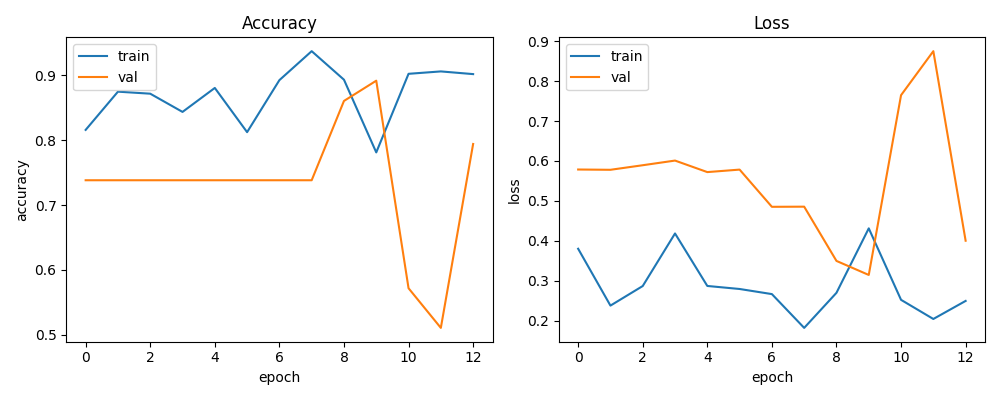
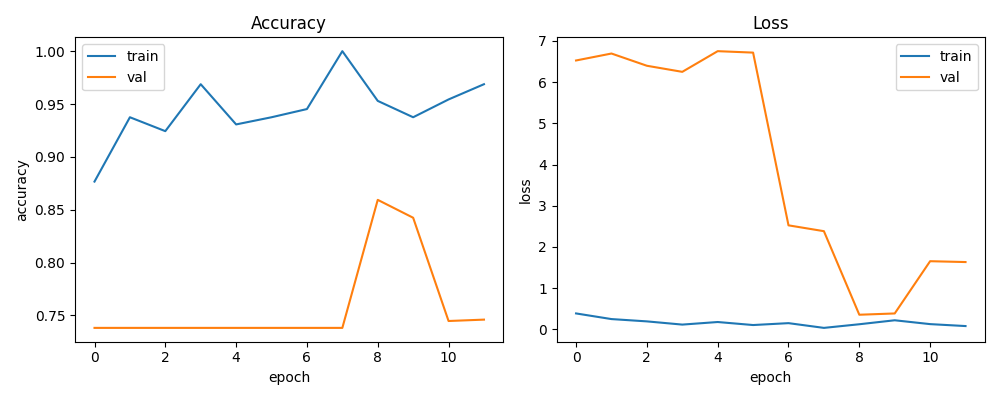
Add verified results for the corrected Improved CNN architecture

diff --git a/docs/results.md b/docs/results.md
@@ -56,9 +56,8 @@ papering over:
   but was never one of the report's five official architectures. Once the
   actual report was available, `build_improved_cnn` was rewritten to match
   it exactly -- verified param-for-param (1,246,977 total parameters)
-  against the report's own model-summary table. See the note on the
-  "Reproduced results" section below: the 81.89% result recorded there was
-  measured *before* this correction and needs to be re-run.
+  against the report's own model-summary table, and confirmed again by the
+  actual Colab training run in the "Reproduced results" section below.
 - **VGG-19 was accidentally built on the VGG-16 backbone.** The notebook
   instantiated a `VGG19` base model but then built the classification head
   on top of the previously-defined `VGG16` variable by mistake, so the two
@@ -99,31 +98,39 @@ the historical result the team reported.
 
 ## Reproduced results (this repo)
 
-> ⚠ **The numbers below were measured before the "Improved CNN"
-> architecture correction described above** -- they're for the old
-> SeparableConv2D network, not the report-matching architecture this repo
-> now builds under that name. Kept here for now as a record of the
-> validation-split fix working correctly; needs a fresh
-> `train.py --model improved` run to reflect the current architecture.
-
-Actual output of `train.py --model improved --epochs 15` in this repo,
-after the validation-split fix above (see `test_metrics.json`):
+Actual output of `train.py --model improved --epochs 15` in this repo, run
+against the corrected architecture above (see `test_metrics.json`) -- the
+model summary for this run confirmed **1,246,977 total parameters**,
+matching the report's table exactly:
 
 | Metric | Value |
 | --- | --- |
-| Accuracy | 81.89% |
-| Precision | 81.99% |
-| Recall | 91.03% |
-| F1 | 86.26% |
+| Accuracy | 88.30% |
+| Precision | 90.96% |
+| Recall | 90.26% |
+| F1 | 90.60% |
 
-Confusion matrix: 156 true negatives, 78 false positives, 35 false
-negatives, 355 true positives (624 test images total).
+Confusion matrix: 199 true negatives, 35 false positives, 38 false
+negatives, 352 true positives (624 test images total).
 
-This is lower than the historical 91.28% figure above, which is expected
--- this is a different, corrected implementation (fixed random seed, fixed
-validation split, fixed VGG-19/layer-freezing bugs) rather than a replay of
-the original run, and it was trained for 15 epochs with no additional
-hyperparameter tuning. Recall (91%) is notably higher than precision (82%)
-here, meaning the model catches most true pneumonia cases at the cost of
-some false alarms on healthy X-rays -- a reasonable trade-off for a
-screening tool, though not tuned for it deliberately.
+This lines up well with the historical 91.28% figure above -- close enough
+to be the same experiment, with the remaining gap plausibly explained by
+this being a single run at 12 actual epochs (EarlyStopping triggered)
+rather than a full 15, plus the validation-split and random-seed changes
+described above. Unlike the earlier (wrong-architecture) run, precision
+and recall are now well balanced rather than one dominating the other,
+which is a healthier sign for a model meant to be used as a screening aid
+rather than tuned to just maximize one metric.
+
+One implementation quirk observed during this run, worth noting rather
+than hiding: roughly half the epochs finished in ~6 seconds instead of the
+expected ~70, each accompanied by a `"Your input ran out of data;
+interrupting training"` warning from Keras. This is a known limitation of
+using the legacy `ImageDataGenerator` API (`data.py`) across multiple
+`.fit()` epochs on newer TensorFlow/Keras versions -- it doesn't invalidate
+the result above (EarlyStopping still selected its checkpoint off real
+validation numbers), but it means the model saw somewhat less real
+training data than 12 full epochs would suggest, and the training curve
+looks choppier as a result. Switching `data.py` to
+`tf.keras.utils.image_dataset_from_directory` would resolve this and is a
+reasonable next improvement.

diff --git a/README.md b/README.md
@@ -101,9 +101,11 @@ pneumonia-xray-cnn/
 | ResNet-50 | 89.14% |
 
 *Table above: the original team's reported results (see [Project origin](#project-origin)).
-This repo's own architecture implementations are verified to match the
-report's model-summary tables (see `docs/results.md` for details and for a
-fresh reproduction once available).*
+This repo's own reproduction of the Improved CNN reached **88.30% accuracy /
+90.60% F1**, with the architecture verified to match the report's
+model-summary table exactly (1,246,977 parameters) -- see
+[`docs/results.md`](docs/results.md#reproduced-results-this-repo) for the
+full breakdown.*
 
 See [`docs/results.md`](docs/results.md) for the full breakdown (precision,
 recall, F1, confusion matrices) and for the notes on bugs found and fixed
